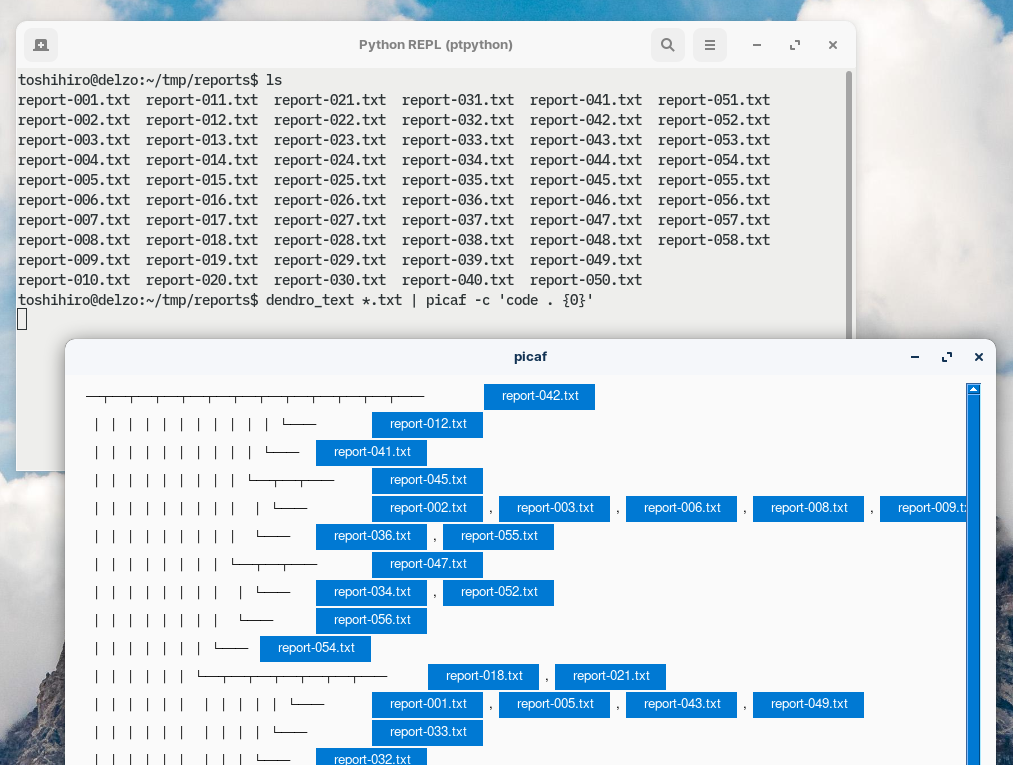
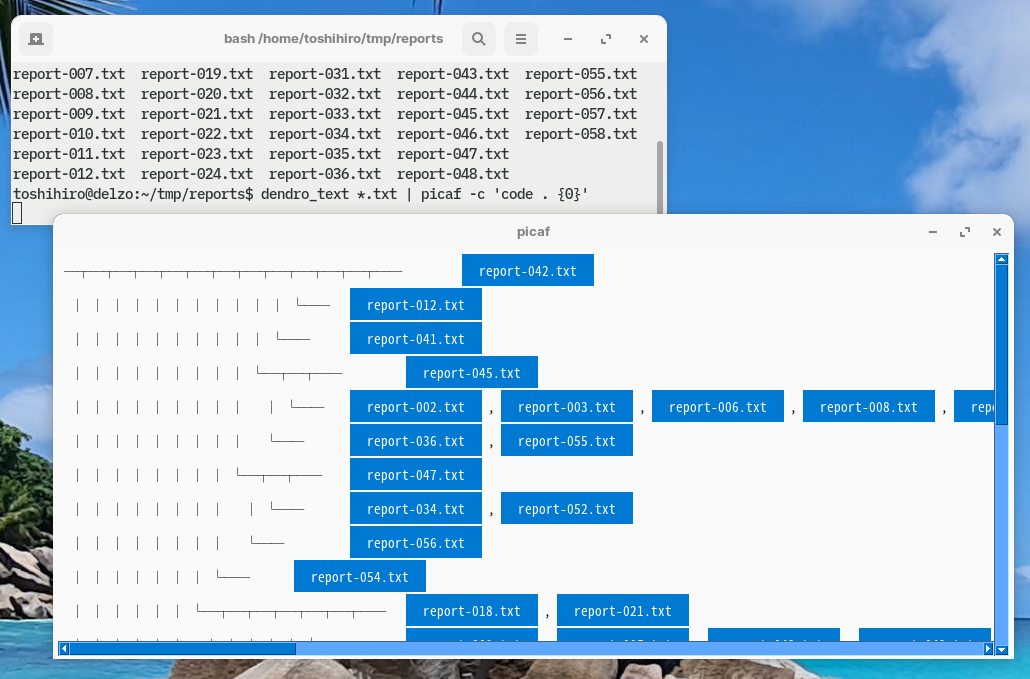
docs: add Window and Mac screenshots

diff --git a/README.md b/README.md
@@ -24,6 +24,13 @@ Install docopt-ng additionally.
 pip install docopt-ng
 ```
 
+
+If you want to run `picaf` with Python installed by brew on a Mac, you also need to install tkinter.
+
+```sh
+brew install python-tk
+```
+
 ## Usage
 
 ```sh
@@ -46,10 +53,20 @@ By default, each time a button is pressed, print the filename. With the option `
 --theme-preview           Show theme previewer.
 ```
 
-### Example of Use
+### Example of Use/Screenshots
 
 picaf was originally designed for use with [dendro_text](https://github.com/tos-kamiya/dendro_text), which finds the similarity of text files and creates a dendrogram.
 
 In this example, make the filenames clickable in the output of `dendro_text` so that you can investigate the content of each file with a text editor.
 
+**Ubuntu**
+
 ![](./images/fig1.png)
+
+**Windows**
+
+![](./images/fig-win-1.png)
+
+**Mac**
+
+![](./images/fig-mac-1.png)

diff --git a/README-pypi.md b/README-pypi.md
@@ -8,7 +8,7 @@ For installation instructions, please refer to the [picaf website](https://githu
 
 ## Example of Use
 
-picaf was originally designed for use with [dendro_text](https://github.com/tos-kamiya/dendro_text), which finds the similarity of text files and creates a dendrogram.
+`picaf` was originally designed for use with [dendro_text](https://github.com/tos-kamiya/dendro_text), which finds the similarity of text files and creates a dendrogram.
 
 In this example, make the filenames clickable in the output of `dendro_text` so that you can investigate the content of each file with a text editor.
 
